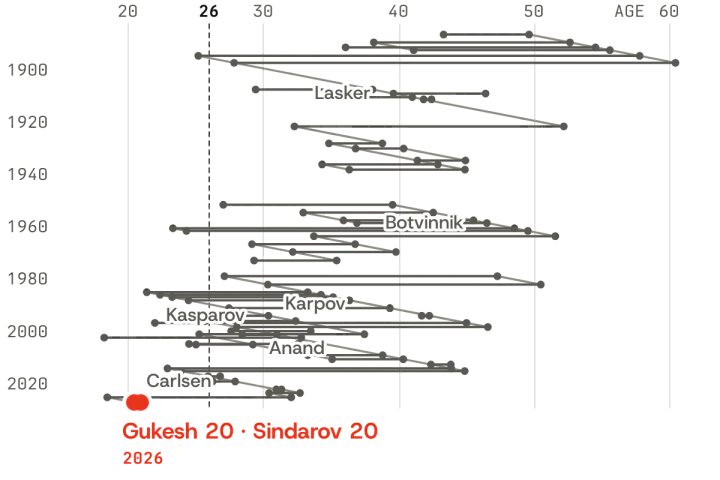
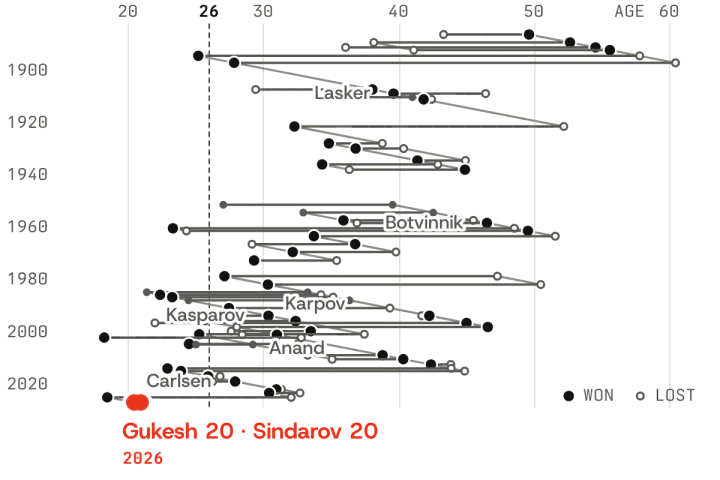
24 Nov: mark who won each title match: a filled dot for the winner, a ring for the loser
Drawn and abandoned matches, and 2026 (still playing), keep two plain dots.

diff --git a/2026-11-24/index.html b/2026-11-24/index.html
@@ -13,7 +13,7 @@
   <meta property="og:image" content="https://casualdata.com/2026-11-24/card.png">
   <meta property="og:image:width" content="1200">
   <meta property="og:image:height" content="630">
-  <meta property="og:image:alt" content="A diagram with years from 1886 to 2026 across and age up. Grey links join the two players’ ages in each world chess title match; grey diagonals follow players such as Lasker, Botvinnik, Karpov, Kasparov, Anand and Carlsen through their matches. Every grey link reaches age 26 or higher. Two red dots at age 20 in 2026 are labelled Gukesh 20, Sindarov 20.">
+  <meta property="og:image:alt" content="A diagram with years from 1886 to 2026 across and age up. Grey links join the two players’ ages in each world chess title match, with a black dot for the winner and a ring for the loser; grey diagonals follow players such as Lasker, Botvinnik, Karpov, Kasparov, Anand and Carlsen through their matches. Every grey link reaches age 26 or higher. Two red dots at age 20 in 2026 are labelled Gukesh 20, Sindarov 20.">
   <meta name="twitter:card" content="summary_large_image">
   <link rel="icon" href="/kit/favicon.svg?v=a2177b6d" type="image/svg+xml">
   <link rel="preload" href="/fonts/host-grotesk-latin.woff2" as="font" type="font/woff2" crossorigin>
@@ -30,9 +30,9 @@
   <meta name="twitter:title" content="Gukesh and Sindarov, both 20, began their world chess title match on 24 November 2026. No earlier title match had two players so young">
   <meta name="twitter:description" content="A lifeline diagram of every two-player world chess title match from 1886 to 2026: each match is a link between its two players’ ages when it began, and each repeat player’s matches are joined by a diagonal line. Gukesh and Sindarov are both 20; in every earlier match at least one player was 26 or older.">
   <meta name="twitter:image" content="https://casualdata.com/2026-11-24/card.png">
-  <meta name="twitter:image:alt" content="A diagram with years from 1886 to 2026 across and age up. Grey links join the two players’ ages in each world chess title match; grey diagonals follow players such as Lasker, Botvinnik, Karpov, Kasparov, Anand and Carlsen through their matches. Every grey link reaches age 26 or higher. Two red dots at age 20 in 2026 are labelled Gukesh 20, Sindarov 20.">
+  <meta name="twitter:image:alt" content="A diagram with years from 1886 to 2026 across and age up. Grey links join the two players’ ages in each world chess title match, with a black dot for the winner and a ring for the loser; grey diagonals follow players such as Lasker, Botvinnik, Karpov, Kasparov, Anand and Carlsen through their matches. Every grey link reaches age 26 or higher. Two red dots at age 20 in 2026 are labelled Gukesh 20, Sindarov 20.">
   <script type="application/ld+json">
-{"@context":"https://schema.org","@graph":[{"@type":"Organization","@id":"https://casualdata.com/#org","name":"casualdata","alternateName":"{casualdata}","url":"https://casualdata.com/","logo":{"@type":"ImageObject","url":"https://casualdata.com/img/og/logo.png","width":512,"height":512},"foundingDate":"2005","description":"casualdata publishes one new interactive data visualization every day: a chart, map or picture of the day's news and data, each on its own dated page with its sources. It also keeps casualdata's data visualization art projects from 2007 to 2011.","founder":{"@type":"Person","@id":"https://mahiryavuz.com/#person","name":"Mahir Yavuz","url":"https://mahiryavuz.com/"},"knowsAbout":["data visualization","information design","data journalism","generative art"]},{"@type":"WebSite","@id":"https://casualdata.com/#website","url":"https://casualdata.com/","name":"casualdata","description":"casualdata publishes one new interactive data visualization every day: a chart, map or picture of the day's news and data, each on its own dated page with its sources. It also keeps casualdata's data visualization art projects from 2007 to 2011.","inLanguage":"en","publisher":{"@id":"https://casualdata.com/#org"}},{"@type":"Article","@id":"https://casualdata.com/2026-11-24/#article","url":"https://casualdata.com/2026-11-24/","mainEntityOfPage":"https://casualdata.com/2026-11-24/","headline":"Gukesh and Sindarov, both 20, began their world chess title match on 24 November 2026. No earlier title match had two players so young","alternativeHeadline":"The ages of both players in every world chess title match since 1886. A line joins the matches of each player who played more than one.","description":"A lifeline diagram of every two-player world chess title match from 1886 to 2026: each match is a link between its two players’ ages when it began, and each repeat player’s matches are joined by a diagonal line. Gukesh and Sindarov are both 20; in every earlier match at least one player was 26 or older.","datePublished":"2026-11-24T07:00:00Z","dateModified":"2026-11-25","image":{"@type":"ImageObject","url":"https://casualdata.com/2026-11-24/card.png","width":1200,"height":630,"caption":"A diagram with years from 1886 to 2026 across and age up. Grey links join the two players’ ages in each world chess title match; grey diagonals follow players such as Lasker, Botvinnik, Karpov, Kasparov, Anand and Carlsen through their matches. Every grey link reaches age 26 or higher. Two red dots at age 20 in 2026 are labelled Gukesh 20, Sindarov 20."},"author":{"@id":"https://casualdata.com/#org"},"publisher":{"@id":"https://casualdata.com/#org"},"isPartOf":{"@id":"https://casualdata.com/#website"},"inLanguage":"en","genre":"data visualization","isAccessibleForFree":true,"keywords":["data visualization","interactive chart","casualdata daily"],"about":{"@id":"https://casualdata.com/2026-11-24/#data"}},{"@type":"Dataset","@id":"https://casualdata.com/2026-11-24/#data","url":"https://casualdata.com/2026-11-24/","name":"Gukesh and Sindarov, both 20, began their world chess title match on 24 November 2026. No earlier title match had two players so young (data, 24 November 2026)","description":"The data behind the casualdata visualization of 24 November 2026: A lifeline diagram of every two-player world chess title match from 1886 to 2026: each match is a link between its two players’ ages when it began, and each repeat player’s matches are joined by a diagonal line. Gukesh and Sindarov are both 20; in every earlier match at least one player was 26 or older. Source: Wikipedia, List of World Chess Championships and each match page; Wikidata start dates; birth dates from Wikidata, checked against each player’s Wikipedia article; fetched 24 Nov 2026 02:36 UTC.","creator":{"@id":"https://casualdata.com/#org"},"datePublished":"2026-11-24","isAccessibleForFree":true,"distribution":{"@type":"DataDownload","encodingFormat":"text/javascript","contentUrl":"https://casualdata.com/2026-11-24/data.js"},"isBasedOn":["https://en.wikipedia.org/wiki/List_of_World_Chess_Championships","https://www.wikidata.org/wiki/","https://en.wikipedia.org/wiki/World_Chess_Championship_2026"],"citation":"Wikipedia, List of World Chess Championships and each match page; Wikidata start dates; birth dates from Wikidata, checked against each player’s Wikipedia article; fetched 24 Nov 2026 02:36 UTC"},{"@type":"BreadcrumbList","itemListElement":[{"@type":"ListItem","position":1,"name":"casualdata","item":"https://casualdata.com/"},{"@type":"ListItem","position":2,"name":"24 November 2026: Gukesh and Sindarov, both 20, began their world chess title match on 24 November 2026. No earlier title match had two players so young","item":"https://casualdata.com/2026-11-24/"}]}]}
+{"@context":"https://schema.org","@graph":[{"@type":"Organization","@id":"https://casualdata.com/#org","name":"casualdata","alternateName":"{casualdata}","url":"https://casualdata.com/","logo":{"@type":"ImageObject","url":"https://casualdata.com/img/og/logo.png","width":512,"height":512},"foundingDate":"2005","description":"casualdata publishes one new interactive data visualization every day: a chart, map or picture of the day's news and data, each on its own dated page with its sources. It also keeps casualdata's data visualization art projects from 2007 to 2011.","founder":{"@type":"Person","@id":"https://mahiryavuz.com/#person","name":"Mahir Yavuz","url":"https://mahiryavuz.com/"},"knowsAbout":["data visualization","information design","data journalism","generative art"]},{"@type":"WebSite","@id":"https://casualdata.com/#website","url":"https://casualdata.com/","name":"casualdata","description":"casualdata publishes one new interactive data visualization every day: a chart, map or picture of the day's news and data, each on its own dated page with its sources. It also keeps casualdata's data visualization art projects from 2007 to 2011.","inLanguage":"en","publisher":{"@id":"https://casualdata.com/#org"}},{"@type":"Article","@id":"https://casualdata.com/2026-11-24/#article","url":"https://casualdata.com/2026-11-24/","mainEntityOfPage":"https://casualdata.com/2026-11-24/","headline":"Gukesh and Sindarov, both 20, began their world chess title match on 24 November 2026. No earlier title match had two players so young","alternativeHeadline":"The ages of both players in every world chess title match since 1886. A line joins the matches of each player who played more than one.","description":"A lifeline diagram of every two-player world chess title match from 1886 to 2026: each match is a link between its two players’ ages when it began, and each repeat player’s matches are joined by a diagonal line. Gukesh and Sindarov are both 20; in every earlier match at least one player was 26 or older.","datePublished":"2026-11-24T07:00:00Z","dateModified":"2026-11-25","image":{"@type":"ImageObject","url":"https://casualdata.com/2026-11-24/card.png","width":1200,"height":630,"caption":"A diagram with years from 1886 to 2026 across and age up. Grey links join the two players’ ages in each world chess title match, with a black dot for the winner and a ring for the loser; grey diagonals follow players such as Lasker, Botvinnik, Karpov, Kasparov, Anand and Carlsen through their matches. Every grey link reaches age 26 or higher. Two red dots at age 20 in 2026 are labelled Gukesh 20, Sindarov 20."},"author":{"@id":"https://casualdata.com/#org"},"publisher":{"@id":"https://casualdata.com/#org"},"isPartOf":{"@id":"https://casualdata.com/#website"},"inLanguage":"en","genre":"data visualization","isAccessibleForFree":true,"keywords":["data visualization","interactive chart","casualdata daily"],"about":{"@id":"https://casualdata.com/2026-11-24/#data"}},{"@type":"Dataset","@id":"https://casualdata.com/2026-11-24/#data","url":"https://casualdata.com/2026-11-24/","name":"Gukesh and Sindarov, both 20, began their world chess title match on 24 November 2026. No earlier title match had two players so young (data, 24 November 2026)","description":"The data behind the casualdata visualization of 24 November 2026: A lifeline diagram of every two-player world chess title match from 1886 to 2026: each match is a link between its two players’ ages when it began, and each repeat player’s matches are joined by a diagonal line. Gukesh and Sindarov are both 20; in every earlier match at least one player was 26 or older. Source: Wikipedia, List of World Chess Championships and each match page; Wikidata start dates; birth dates from Wikidata, checked against each player’s Wikipedia article; fetched 24 Nov 2026 02:36 UTC.","creator":{"@id":"https://casualdata.com/#org"},"datePublished":"2026-11-24","isAccessibleForFree":true,"distribution":{"@type":"DataDownload","encodingFormat":"text/javascript","contentUrl":"https://casualdata.com/2026-11-24/data.js"},"isBasedOn":["https://en.wikipedia.org/wiki/List_of_World_Chess_Championships","https://www.wikidata.org/wiki/","https://en.wikipedia.org/wiki/World_Chess_Championship_2026"],"citation":"Wikipedia, List of World Chess Championships and each match page; Wikidata start dates; birth dates from Wikidata, checked against each player’s Wikipedia article; fetched 24 Nov 2026 02:36 UTC"},{"@type":"BreadcrumbList","itemListElement":[{"@type":"ListItem","position":1,"name":"casualdata","item":"https://casualdata.com/"},{"@type":"ListItem","position":2,"name":"24 November 2026: Gukesh and Sindarov, both 20, began their world chess title match on 24 November 2026. No earlier title match had two players so young","item":"https://casualdata.com/2026-11-24/"}]}]}
 </script>
   <link rel="prev" href="https://casualdata.com/2026-11-23/">
   <link rel="next" href="https://casualdata.com/2026-11-25/">
@@ -58,7 +58,7 @@
 </section>
 
 <main class="cd-stage" id="stage">
-  <canvas id="cv" tabindex="0" role="application" aria-roledescription="interactive chart" aria-label="A lifeline diagram of every two-player world chess title match from 1886 to 2026, with years along one side and age along the other. Each match is a grey link between its two players’ ages when it began; a diagonal joins the matches of each player who played more than one. Every link before 2026 reaches age 26 or more. In red, 2026: Gukesh and Sindarov, both 20. Use the left and right arrow keys to step from match to match and hear both players’ ages and the result; Escape or Home goes back to 2026."></canvas>
+  <canvas id="cv" tabindex="0" role="application" aria-roledescription="interactive chart" aria-label="A lifeline diagram of every two-player world chess title match from 1886 to 2026, with years along one side and age along the other. Each match is a grey link between its two players’ ages when it began; a diagonal joins the matches of each player who played more than one. Where a match was won, the winner’s end is a larger black dot and the loser’s a hollow ring. Every link before 2026 reaches age 26 or more. In red, 2026: Gukesh and Sindarov, both 20. Use the left and right arrow keys to step from match to match and hear both players’ ages and the result; Escape or Home goes back to 2026."></canvas>
 </main>
 
 <footer class="cd-foot cd-meta">
@@ -68,6 +68,6 @@
 <script src="/kit/days.js"></script>
 <script src="/kit/cd.js?v=b7baf587"></script>
 <script src="data.js?v=82bfa399"></script>
-<script src="viz.js?v=f3d873a6"></script>
+<script src="viz.js?v=594b7fb5"></script>
 </body>
 </html>

diff --git a/2026-11-24/viz.js b/2026-11-24/viz.js
@@ -155,14 +155,17 @@
 			const [ax, ay] = P(l.t0, l.a0), [bx, by] = P(l.t0 + f * (l.t1 - l.t0), l.a0 + f * (l.a1 - l.a0));
 			ctx.beginPath(); ctx.moveTo(ax, ay); ctx.lineTo(bx, by); ctx.stroke();
 		});
-		// links: a grey bar between the two ages, a dot at each end
+		// links: a grey bar between the two ages, a dot at each end. Where a match was won, the winner's end is a
+		// larger ink dot and the loser's a hollow ring; drawn and abandoned matches (and 2026, still playing) keep two plain dots
 		const r = (tall ? 2.6 : 3) * s;
+		const winnerDot = (qx, qy, rr, col) => { ctx.fillStyle = C.paper; ctx.beginPath(); ctx.arc(qx, qy, rr * 1.35 + 1.2 * s, 0, 7); ctx.fill(); ctx.fillStyle = col; ctx.beginPath(); ctx.arc(qx, qy, rr * 1.35, 0, 7); ctx.fill(); };
+		const loserDot = (qx, qy, rr, col) => { ctx.fillStyle = C.paper; ctx.beginPath(); ctx.arc(qx, qy, rr, 0, 7); ctx.fill(); ctx.strokeStyle = col; ctx.lineWidth = 1.4 * s; ctx.beginPath(); ctx.arc(qx, qy, rr - 0.3 * s, 0, 7); ctx.stroke(); };
 		MS.forEach((m, i) => {
 			if (i === NOW || !shown(m)) return;
 			const [ax, ay] = P(m.t, m.xw), [bx, by] = P(m.t, m.xl);
 			ctx.strokeStyle = C.ink2; ctx.lineWidth = 1.6 * s; ctx.beginPath(); ctx.moveTo(ax, ay); ctx.lineTo(bx, by); ctx.stroke();
-			ctx.fillStyle = C.ink2;
-			[[ax, ay], [bx, by]].forEach(([qx, qy]) => { ctx.beginPath(); ctx.arc(qx, qy, r, 0, 7); ctx.fill(); });
+			if (m.res === "won") { loserDot(bx, by, r, C.ink2); winnerDot(ax, ay, r, C.ink); }
+			else { ctx.fillStyle = C.ink2; [[ax, ay], [bx, by]].forEach(([qx, qy]) => { ctx.beginPath(); ctx.arc(qx, qy, r, 0, 7); ctx.fill(); }); }
 		});
 
 		// player names, light, at the end of six long lines
@@ -179,6 +182,18 @@
 			ctx.strokeStyle = C.paper; ctx.lineWidth = 4 * s; ctx.strokeText(l.p.short, bx, by);
 			ctx.fillText(l.p.short, bx, by);
 		});
+		// the key: one winner mark and one loser mark. Wide: top right, above the old ages of recent years; tall: bottom right
+		{
+			ctx.font = mono; ctx.textBaseline = "middle"; ctx.textAlign = "left";
+			const t1 = "WON", t2 = "LOST", gap = 14 * s, rr = r;
+			const w1 = ctx.measureText(t1).width, w2 = ctx.measureText(t2).width;
+			const kw = 2 * (rr * 1.35 * 2 + 6 * s) + w1 + w2 + gap;
+			const kx = box.x1 - kw, ky = tall ? box.y1 - 8 * s : box.y0 + 8 * s;
+			let cx = kx + rr * 1.35;
+			winnerDot(cx, ky, rr, C.ink); ctx.fillStyle = C.ink2; ctx.fillText(t1, cx + rr * 1.35 + 6 * s, ky);
+			cx += rr * 1.35 + 6 * s + w1 + gap + rr * 1.35;
+			loserDot(cx, ky, rr, C.ink2); ctx.fillStyle = C.ink2; ctx.fillText(t2, cx + rr * 1.35 + 6 * s, ky);
+		}
 		ctx.globalAlpha = 1; ctx.textAlign = "left"; ctx.textBaseline = "alphabetic";
 
 		// ---- the reader's match: the link in ink, its year, both names and ages, and the result beside it
@@ -187,7 +202,8 @@
 			const m = MS[pick], [ax, ay] = P(m.t, m.xw), [bx, by] = P(m.t, m.xl);
 			ctx.strokeStyle = C.paper; ctx.lineWidth = 6 * s; ctx.beginPath(); ctx.moveTo(ax, ay); ctx.lineTo(bx, by); ctx.stroke();
 			ctx.strokeStyle = C.ink; ctx.lineWidth = 2.4 * s; ctx.beginPath(); ctx.moveTo(ax, ay); ctx.lineTo(bx, by); ctx.stroke();
-			[[ax, ay], [bx, by]].forEach(([qx, qy]) => { ctx.fillStyle = C.paper; ctx.beginPath(); ctx.arc(qx, qy, 6 * s, 0, 7); ctx.fill(); ctx.fillStyle = C.ink; ctx.beginPath(); ctx.arc(qx, qy, 4.4 * s, 0, 7); ctx.fill(); });
+			if (m.res === "won") { loserDot(bx, by, 4.4 * s, C.ink); winnerDot(ax, ay, 4.4 * s, C.ink); }
+			else [[ax, ay], [bx, by]].forEach(([qx, qy]) => { ctx.fillStyle = C.paper; ctx.beginPath(); ctx.arc(qx, qy, 6 * s, 0, 7); ctx.fill(); ctx.fillStyle = C.ink; ctx.beginPath(); ctx.arc(qx, qy, 4.4 * s, 0, 7); ctx.fill(); });
 			const l1 = String(m.year) + (m.title === "classical" ? " · CLASSICAL TITLE" : m.title === "fide" ? " · FIDE TITLE" : ""), l2 = pair(m), l3 = resText(m);
 			ctx.font = monoB; const w1 = ctx.measureText(l1).width; ctx.font = nameB; const w2 = ctx.measureText(l2).width; ctx.font = name; const w3 = ctx.measureText(l3).width;
 			const bw = Math.max(w1, w2, w3), bh = 52 * s;
